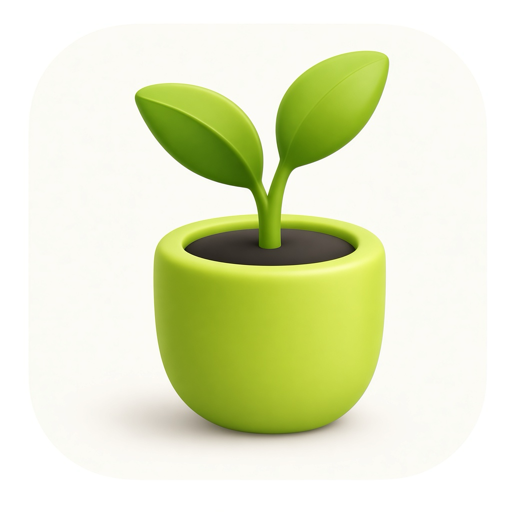
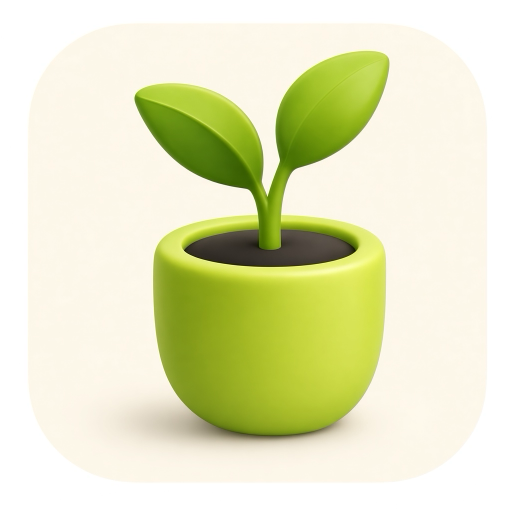
Replace the Superfluid swirl on Home with a 3D clay Rvess sprout.

diff --git a/components/shell.tsx b/components/shell.tsx
@@ -49,7 +49,7 @@ function DesktopSideView({ pathname }: { pathname: string }) {
   return (
     <aside className="hidden lg:sticky lg:top-0 lg:flex lg:h-dvh lg:flex-col lg:border-r lg:border-[#E3EAD4] lg:bg-[#F7FAF2] lg:px-3 lg:py-5">
       <Link href="/home" className="flex items-center gap-2.5 rounded-2xl px-2 py-1 focus-visible:outline-2 focus-visible:outline-offset-2 focus-visible:outline-[#141414]">
-        <img src="/mark.jpg" alt="" className="size-9 rounded-xl object-cover" />
+        <img src="/mark.png" alt="" className="size-9 rounded-xl object-cover" />
         <span className="font-[family-name:var(--font-manrope)] text-lg font-semibold tracking-[-0.03em] text-[#141414]">Rvess</span>
       </Link>
       <nav className="mt-7" aria-label="Main">

diff --git a/components/install-app.tsx b/components/install-app.tsx
@@ -81,7 +81,7 @@ export function InstallButton({ className = "", row = false }: { className?: str
         onClick={() => void install()}
         className="inline-flex h-11 items-center gap-2 rounded-full border border-border bg-card px-3.5 text-sm font-medium text-foreground focus-visible:outline-2 focus-visible:outline-offset-2 focus-visible:outline-foreground"
       >
-        <img src="/icon-192.png" alt="" width={22} height={22} className="size-[22px] rounded-md" />
+        <img src="/mark.png" alt="" width={22} height={22} className="size-[22px] rounded-md" />
         Install
       </button>
       {help ? (

diff --git a/components/icons.tsx b/components/icons.tsx
@@ -275,5 +275,5 @@ export function IconTarget(props: IconProps) {
 }
 
 export function IconMark({ className }: { className?: string }) {
-  return <img src="/icon-192.png" alt="" className={`rounded-[22%] object-cover ${className ?? "size-8"}`} />;
+  return <img src="/mark.png" alt="" className={`rounded-[22%] object-cover ${className ?? "size-8"}`} />;
 }
